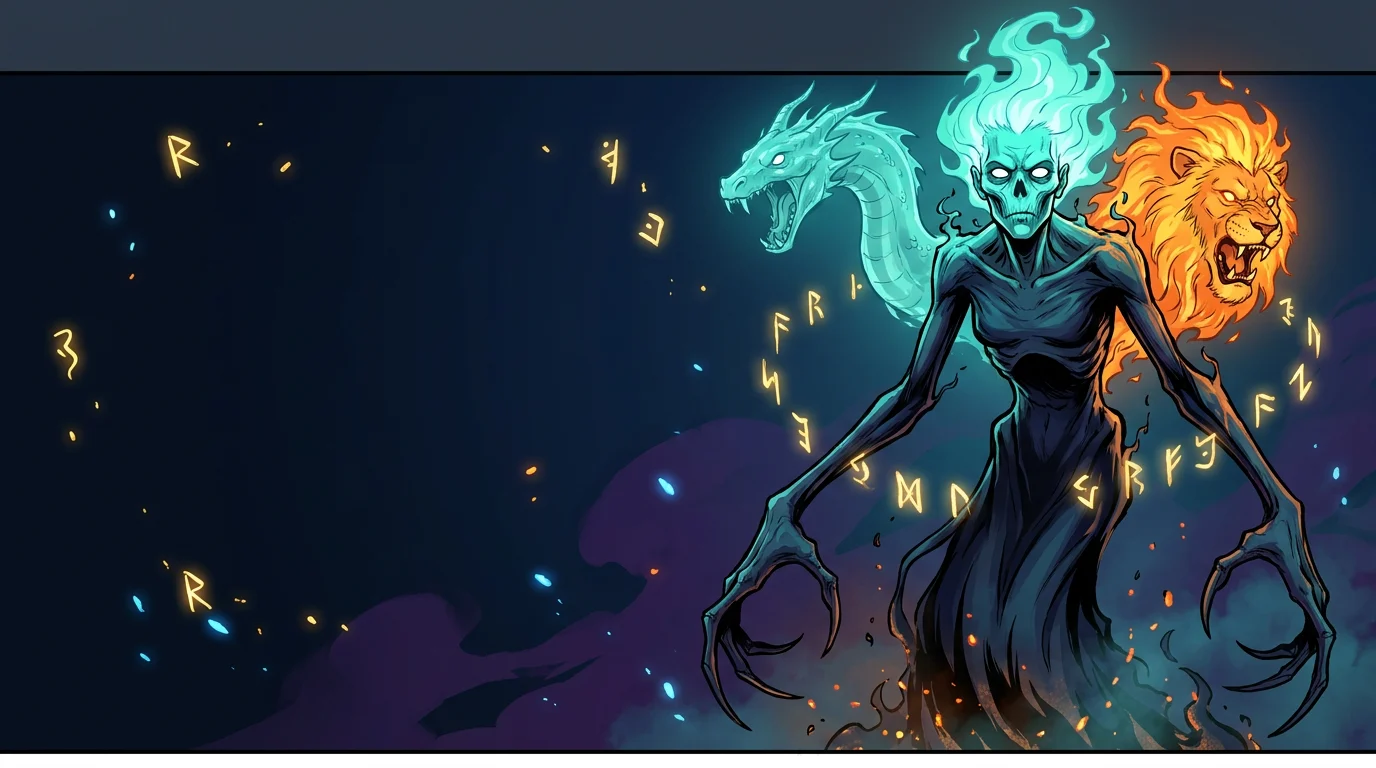
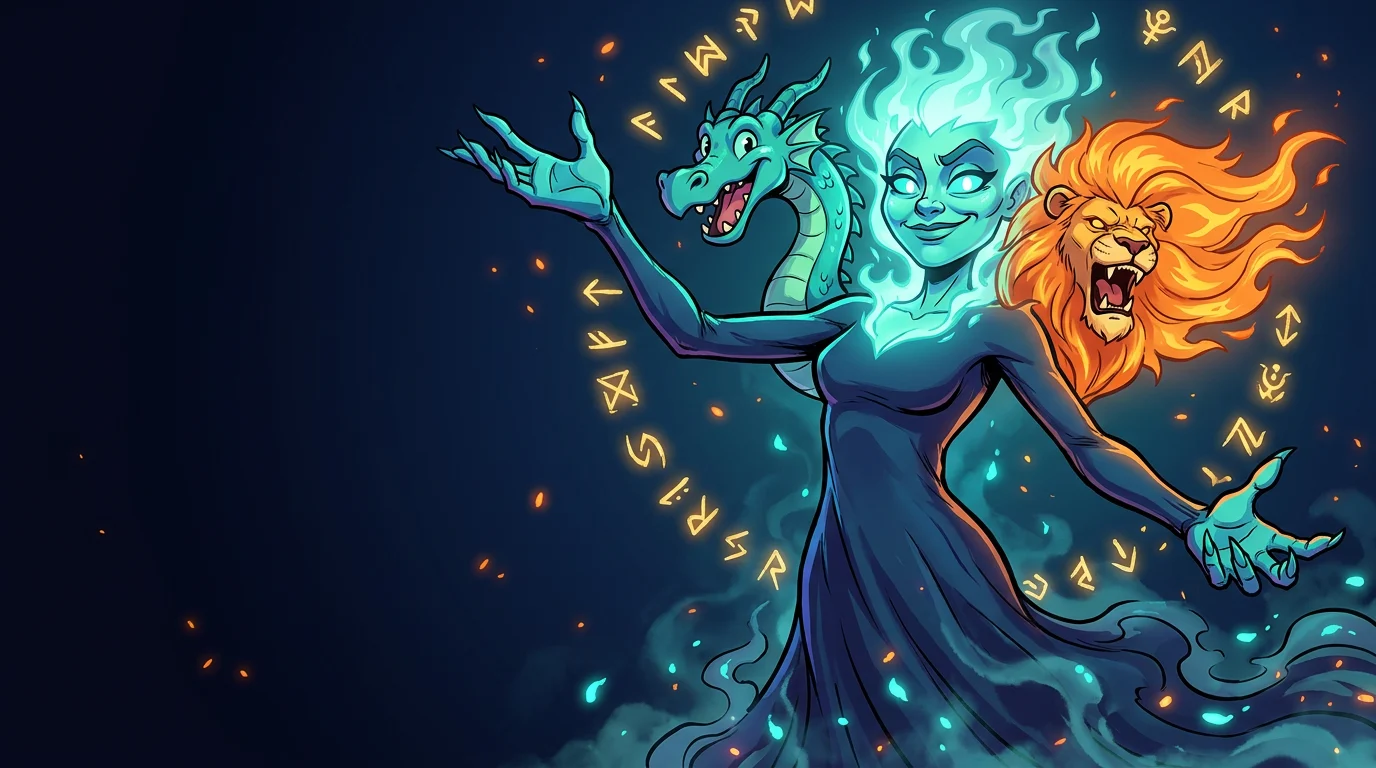
Less horror, more card: Amanda redrawn, and Chuppy drawn at all
Or said the logo was a bit frightening and should look like the cards we
settled on. The style was already darkcomic — the problem was the subject. The
brief described a gaunt skull with hollow cheeks and fangs, and no amount of
ink style saves that. It now asks for a face with cheeks, brows, pupils and a
grin, and says in as many words: a queen, not a horror, readable and appealing
to a child, no skulls.

Chuppy is new here. He is the player's friend, handed over at the start the way
Ash has Pikachu, so he is written as cheerful on purpose: golden shaggy fur,
big round eyes, thick black eyebrows, a one-toothed grin, lightning around him.
A portrait for menus and a full-length pose for his card.

Still not wired into the game — Or approves the look first. And his stats are
still an open question: his own card says 720 health against 610 power, and Or
asked for the reverse.

diff --git a/packages/art/src/brandLooks.ts b/packages/art/src/brandLooks.ts
@@ -19,18 +19,40 @@
 
 /** Amanda's canon description — shared by every brand image so she stays one creature. */
 export const AMANDA = [
-  "AMANDA, a towering three-headed soul-devouring wraith.",
-  "CENTRE HEAD: a gaunt spectral humanoid face of glowing teal-cyan spirit-fire,",
-  "hollow cheeks, two blank white-hot glowing eyes, a crown-like halo of swirling",
-  "ghost flame rising off her skull.",
-  "LEFT HEAD: a translucent teal serpent-dragon head on a long neck, jaws parted.",
-  "RIGHT HEAD: a burning orange lion head with a mane of living fire, snarling.",
-  "BODY: tall and impossibly gaunt, deep navy-black, draped like smoke, dissolving",
-  "into mist and embers at the bottom instead of legs. Enormously long skeletal",
-  "arms ending in long curved claws.",
-  "Golden glowing runes float in the air around her.",
+  "AMANDA, a towering three-headed spirit queen.",
+  "CENTRE HEAD: a CHARACTERFUL face of glowing teal-cyan spirit-fire — big",
+  "expressive glowing eyes with visible pupils, strong brows, a wide knowing",
+  "grin. A CHARACTER with a personality, NOT a skull: she has cheeks, a nose",
+  "and an expression. No bare skull, no hollow eye sockets, no gaunt corpse.",
+  "A crown-like halo of swirling ghost flame rises off her head.",
+  "LEFT HEAD: a teal serpent-dragon head on a long neck, mouth open, cartoonish",
+  "and lively rather than vicious.",
+  "RIGHT HEAD: a lion head with a mane of living orange fire, mouth open mid-roar,",
+  "bold and heroic rather than savage.",
+  "BODY: tall and flowing, deep navy-blue, draped like smoke, trailing off into",
+  "mist and embers instead of legs. Long arms with bold clawed hands.",
+  "Golden glowing runes float around her.",
   "Palette: icy teal and cyan against ember orange, over deep midnight blue.",
-  "Ancient, vast and amused — a queen, not a beast. NO gore, NO blood.",
+  "Ancient, vast, amused and pleased with herself — a QUEEN, not a horror.",
+  "Readable and appealing to a CHILD. NO gore, NO blood, NO skulls, NOT scary.",
+].join(" ");
+
+/**
+ * Chuppy — the player's friend, handed over at the very start, the way Ash has
+ * Pikachu. Canon is page 9 of the original deck:
+ * צ'ופי · #52 · הפרוותיים · חשמל · מכת חישמולייזר, kept at
+ * `assets/reference/chuppy-canon.png`. A cheerful fuzzy one, not a monster to
+ * be afraid of — that is the whole point of him.
+ */
+export const CHUPPY = [
+  "CHUPPY: a small cheerful fuzzy monster, bright golden-yellow shaggy fur,",
+  "a rounded blob body with stubby arms and little rounded fists, two big",
+  "round friendly eyes with large dark pupils, THICK bold black eyebrows that",
+  "give him a determined cheeky look, a wide open happy grin with one small",
+  "tooth, a tuft of spiky fur on top of his head.",
+  "Crackling yellow electricity arcs around him, a few bold lightning bolts.",
+  "Plucky, funny and likeable — a best friend, NOT frightening, NO fangs,",
+  "NO menace. Appealing to a child.",
 ].join(" ");
 
 /** One brief per brand image. */
@@ -42,7 +64,8 @@ export const BRAND_LOOK: Record<string, string> = {
     "perfectly centred and symmetrical, the serpent head and the burning lion head " +
     "flanking her at the edges of the shoulders. Deep midnight-blue backdrop with a " +
     "faint rune glow. The subject fills the middle 70% with clear margin on all four " +
-    "sides so it survives being cropped to a circle. Readable silhouette at tiny sizes.",
+    "sides so it survives being cropped to a circle. Readable silhouette at tiny sizes. " +
+    "Warm and charismatic, the villain a child quotes.",
 
   // The logo lockup. No lettering is asked for — Hebrew is not something an
   // image model can spell, and the wordmark is set in the app over this.
@@ -57,6 +80,19 @@ export const BRAND_LOOK: Record<string, string> = {
     "absolutely no checkerboard pattern, no grey squares, no transparency grid. " +
     "NO TEXT, NO LETTERS, NO WORDS of any kind.",
 
+  // Chuppy's face, for menus and for the card that starts every album.
+  chuppy_portrait:
+    `${CHUPPY} Head-and-shoulders portrait, facing straight ahead, perfectly ` +
+    "centred and symmetrical, grinning at the viewer. Deep electric-blue backdrop " +
+    "with a bright crackling glow behind him. The subject fills the middle 70% " +
+    "with clear margin on all four sides. Readable silhouette at tiny sizes.",
+
+  // Chuppy full-length, the way a card shows him.
+  chuppy_card:
+    `${CHUPPY} Full body, standing and leaning forward with both little fists ` +
+    "raised, mid-cheer, lightning bolts forking down on both sides of him against " +
+    "a deep electric-blue sky. Energetic hero pose.",
+
   // Wide art for the Amanda-mode screen, where she shares the frame with UI.
   amanda_banner:
     `${AMANDA} Wide horizontal banner. Amanda looms in from the RIGHT side of the ` +
@@ -66,8 +102,10 @@ export const BRAND_LOOK: Record<string, string> = {
 };
 
 /** Shape each brand image is generated at. */
-export const BRAND_ASPECT: Record<string, "1:1" | "16:9"> = {
+export const BRAND_ASPECT: Record<string, "1:1" | "16:9" | "3:4"> = {
   amanda_portrait: "1:1",
+  chuppy_portrait: "1:1",
+  chuppy_card: "3:4",
   amanda_logo: "1:1",
   amanda_banner: "16:9",
 };
